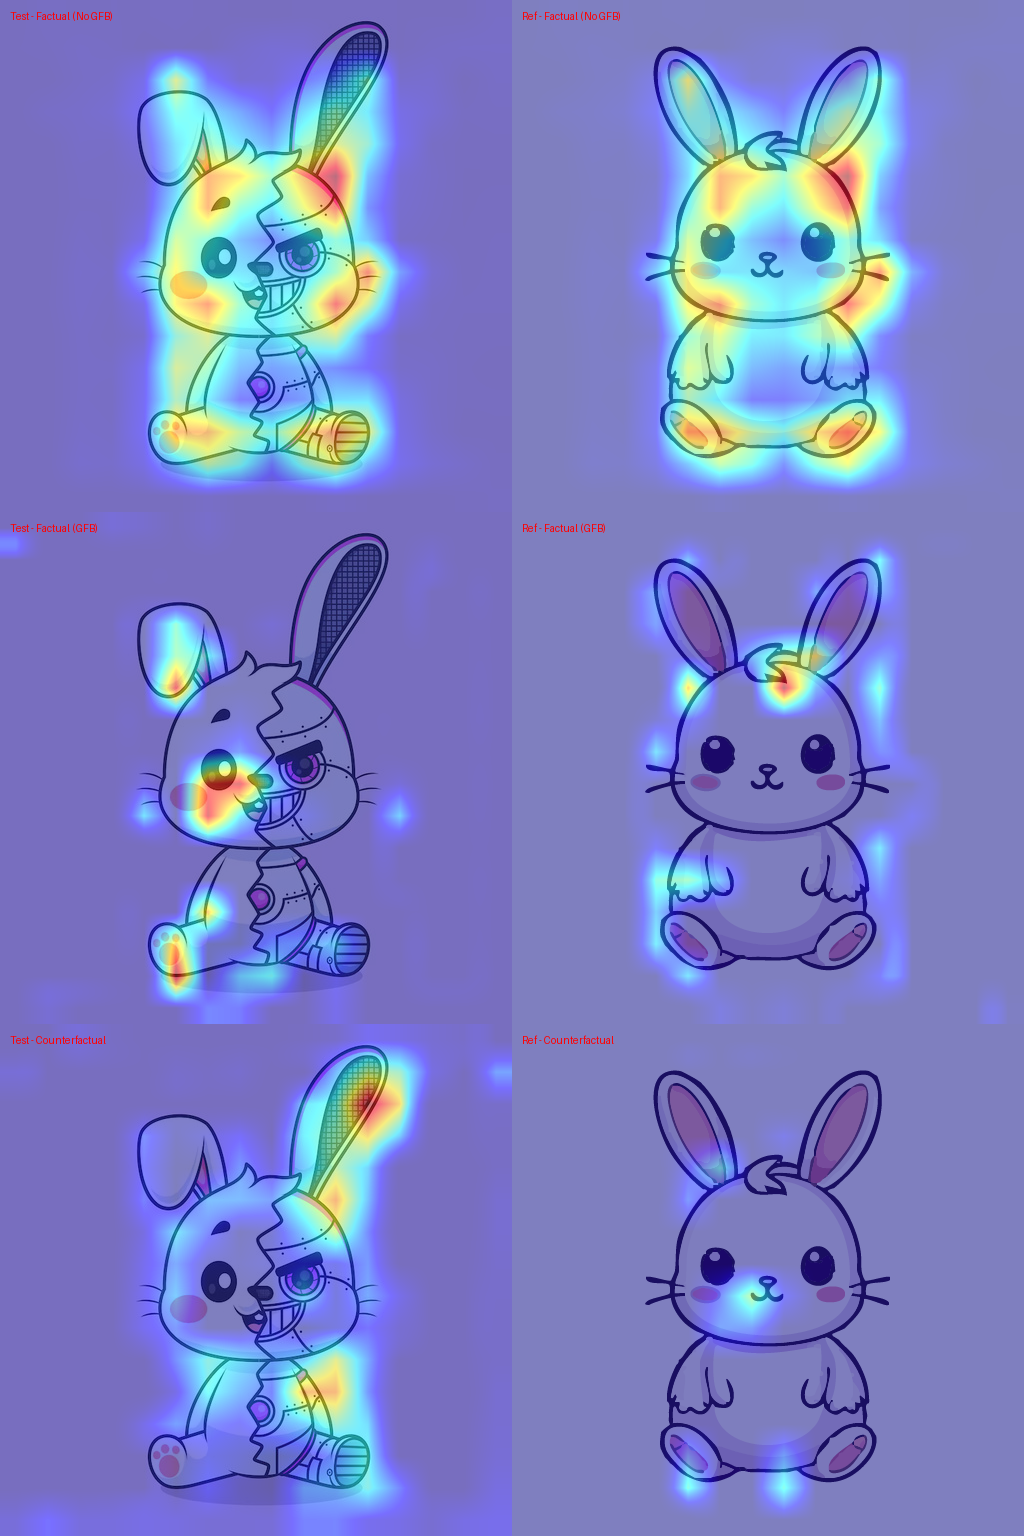
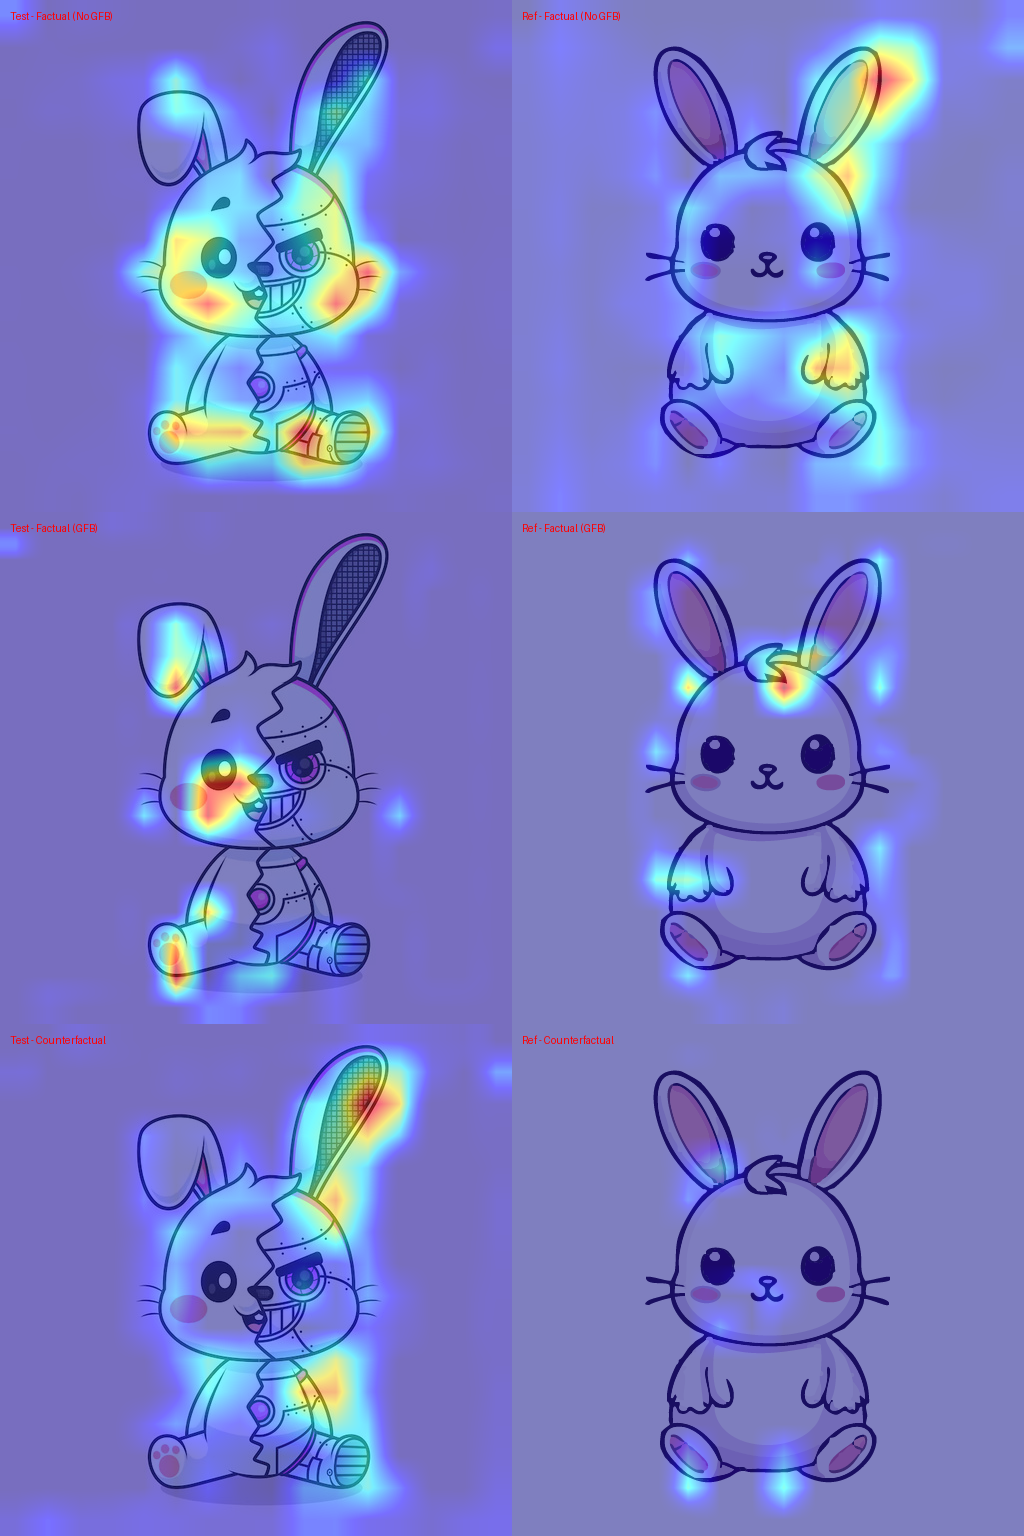
1_2 counterfact 완

diff --git a/Rabbit1/CAM/main1_2.py b/Rabbit1/CAM/main1_2.py
@@ -221,9 +221,20 @@ def run_pipeline(test_img_path, gfb_option='A'):
     fmap_test = model.get_feature_map(img_test).squeeze(0)
     fmap_ref = model.get_feature_map(img_ref).squeeze(0)
 
-    # ---------- 1. GFB 없이 Grad-CAM만 ---------- #
-    cam0_test = gradcam.generate(img_test, F.cosine_similarity(z_test, z_ref).sum())[0]
-    cam0_ref = gradcam.generate(img_ref, F.cosine_similarity(z_ref, z_test).sum())[0]
+    # ---------- 1. Factual (No GFB) Grad-CAM Only ---------- #
+
+    # [Test]
+    z_test_fg = model.get_embedding(img_test).requires_grad_()
+    z_ref_fg = model.get_embedding(img_ref).detach()
+    score_test_fg = F.cosine_similarity(z_test_fg, z_ref_fg, dim=1).sum()
+    cam0_test = gradcam.generate(img_test, score_test_fg)[0]
+
+    # [Ref]
+    z_ref_fg = model.get_embedding(img_ref).requires_grad_()
+    z_test_fg = model.get_embedding(img_test).detach()
+    score_ref_fg = F.cosine_similarity(z_ref_fg, z_test_fg, dim=1).sum()
+    cam0_ref = gradcam.generate(img_ref, score_ref_fg)[0]
+
     vis0 = overlay_heatmap(raw_test, cam0_test)
     vis1 = overlay_heatmap(raw_ref, cam0_ref)
 
@@ -253,10 +264,7 @@ def run_pipeline(test_img_path, gfb_option='A'):
     # Grad-CAM target으로 직접 projection feature를 선택해서
     # test에서 counterfactual한 patch 위치의 projection vector 하나를 선택해서 score로 씀
     with torch.no_grad():
-        cf_score_map = generate_patch_based_target(fmap_test, fmap_ref, gfb_tensor,
-                                                   threshold=config['gfb']['threshold'],
-                                                   gfb_chunk_size=32,
-                                                   ref_chunk_size=128)  # [H, W]
+        cf_score_map = target_weights
         max_y, max_x = torch.where(cf_score_map == cf_score_map.max())
         y, x = max_y[0].item(), max_x[0].item()
 
